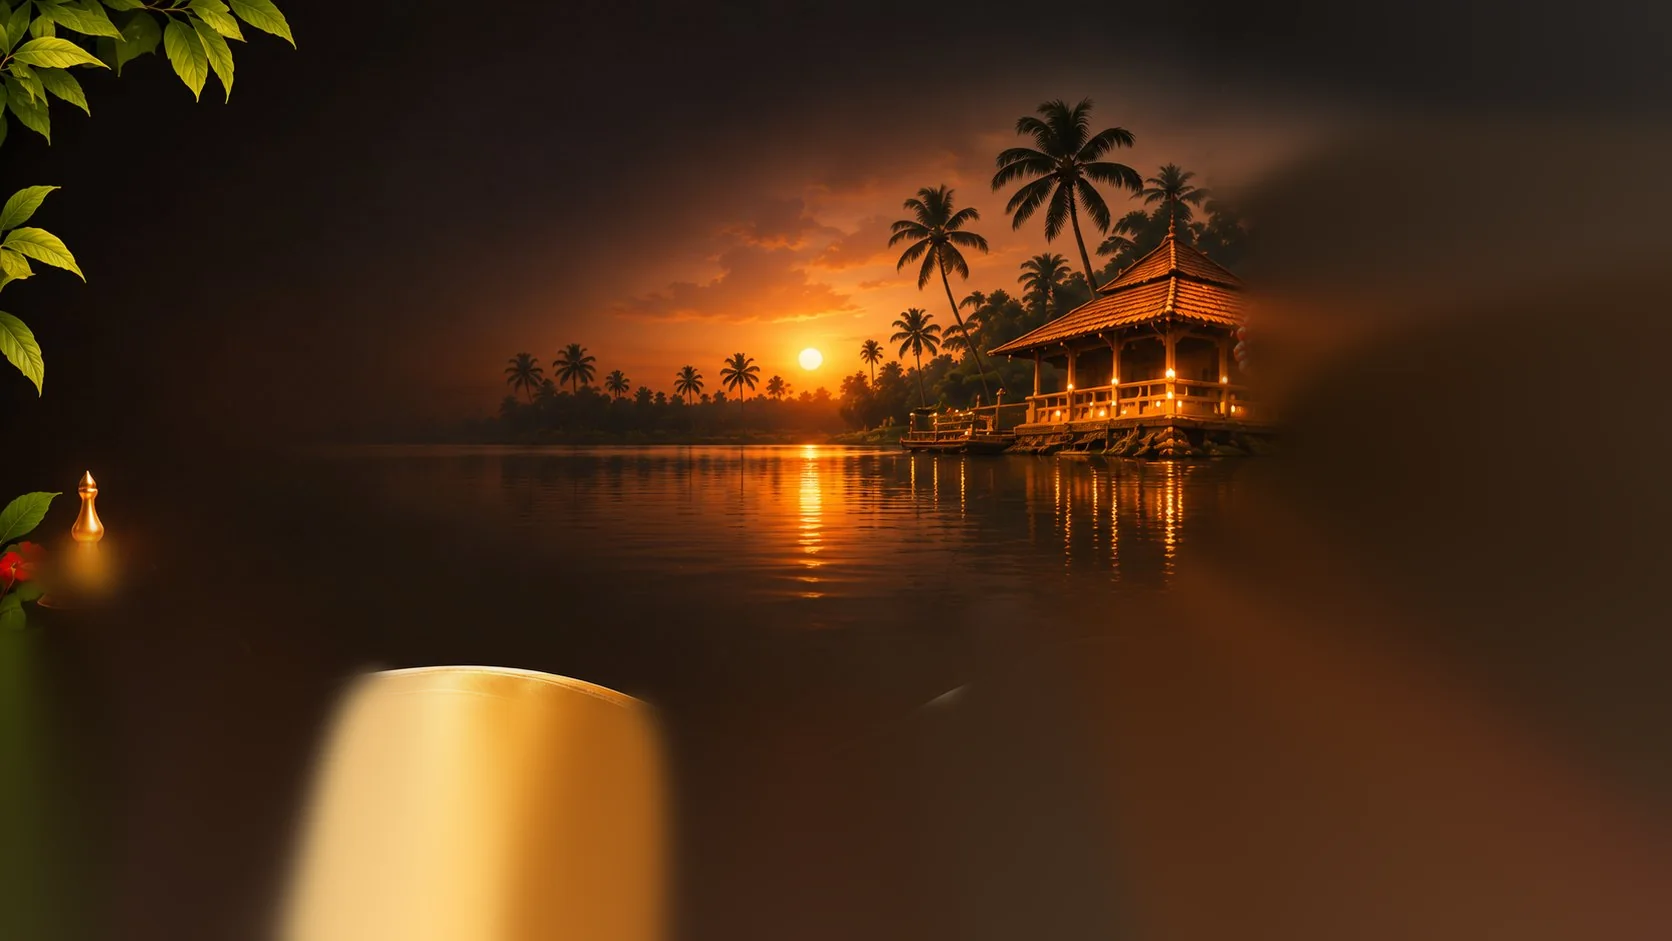
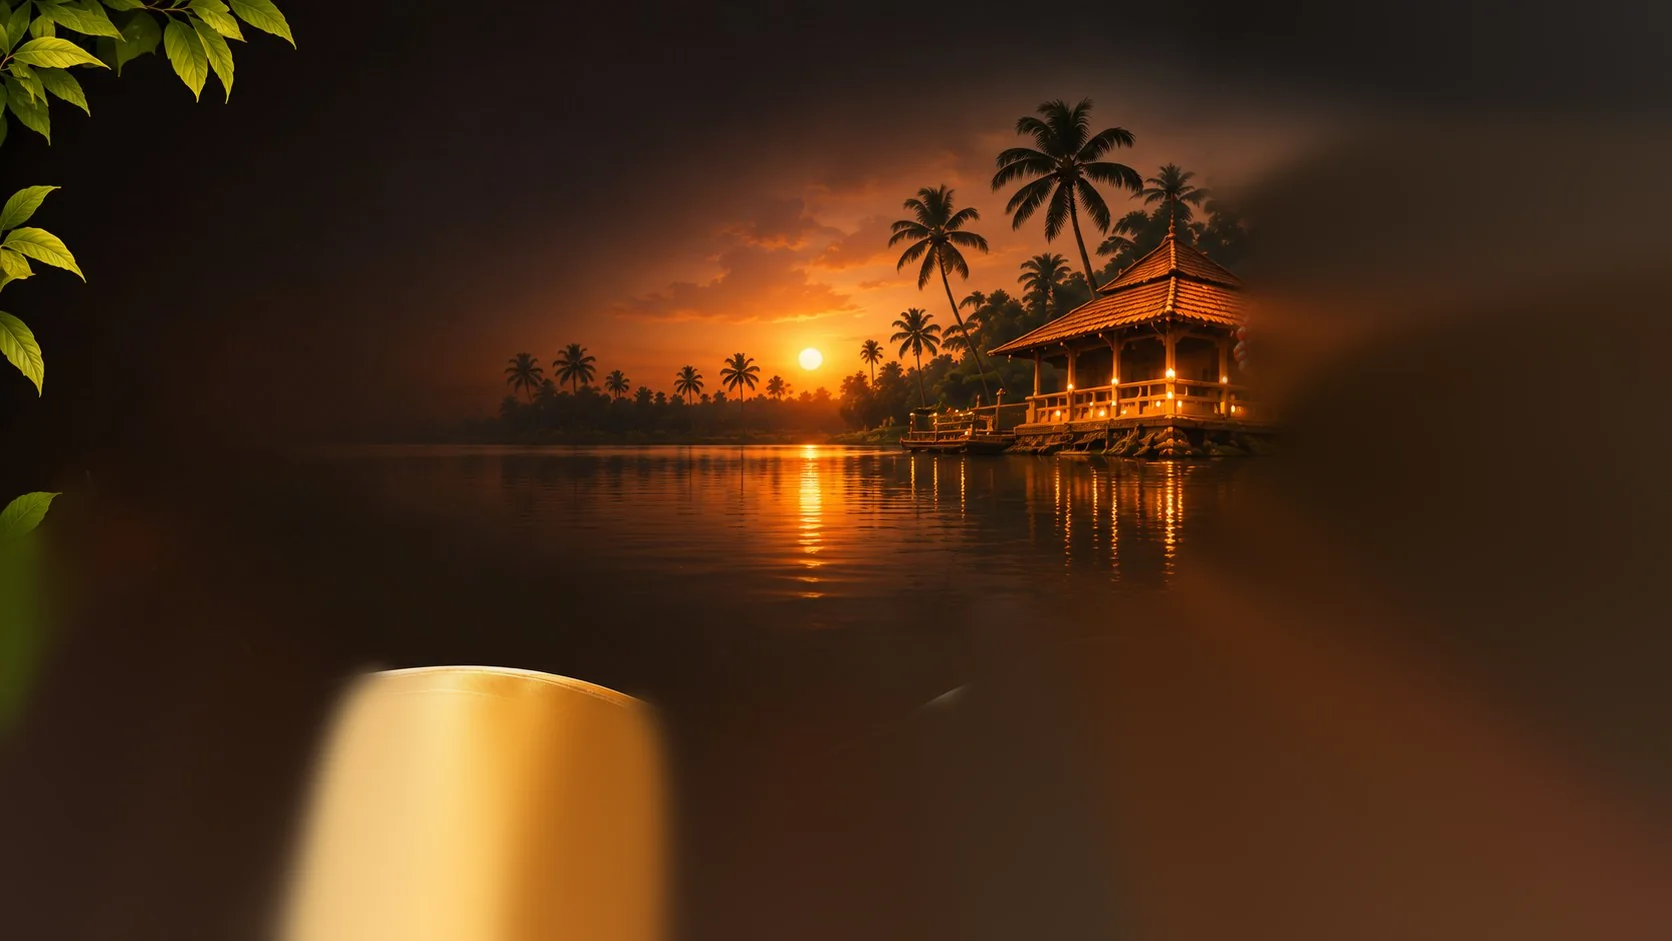
feat(ui): integrate mudra-premium-v3 interactive lighting and depth layers
- Update dark hero plates with refined figure cut-out and background
- Add pointer-reactive kasavu cloth glow in light mode
- Add interactive oil-lamp flare rig and bloom in dark mode
- Add depth stage and Malayalam watermark to PageSheet inner pages
- Defer lamp positioning in Motion.tsx to prevent hydration mismatch
- Add suppressHydrationWarning to stage containers in page and PageSheet

Changed region(s): [[0.0, 0.4931, 0.0933, 0.678]]

diff --git a/src/app/home-premium-plus.css b/src/app/home-premium-plus.css
@@ -43,3 +43,115 @@ img.dk.d-fig { filter: contrast(1.05) saturate(1.08) drop-shadow(0 0 26px rgba(2
   .explore .car-track > li, body:has(.hero) .site-header::before, body:has(.hero) .site-header::after { animation: none !important; }
   body:has(.hero) .site-header::before { opacity: 1; }
 }
+
+/* ==========================================================================
+   4. LIGHT · the silk glows where the pointer crosses it
+   .cloth-glow lives inside the 3D stage, masked by the figure plate's own alpha
+   AND a diagonal band, so it can only ever light the kasavu cloth, never the face.
+   ========================================================================== */
+.cloth-glow {
+  position: absolute; inset: 0; pointer-events: none; opacity: 0; transition: opacity .5s var(--ease-out);
+  transform: translate3d(0, calc(var(--sy, 0) * .04px), 66px) scale(.96);
+  background:
+    radial-gradient(circle 46px at var(--cgx, 50%) var(--cgy, 80%), rgba(255, 255, 255, .55), transparent 100%),
+    radial-gradient(circle 320px at var(--cgx, 50%) var(--cgy, 80%), rgba(255, 206, 92, .78) 0, rgba(255, 170, 50, .42) 34%, rgba(255, 150, 30, .14) 62%, transparent 80%);
+  -webkit-mask-image: url('/mudra/hero-figure.webp'), linear-gradient(174deg, transparent 54%, #000 66%);
+          mask-image: url('/mudra/hero-figure.webp'), linear-gradient(174deg, transparent 54%, #000 66%);
+  -webkit-mask-size: cover, 100% 100%; mask-size: cover, 100% 100%;
+  -webkit-mask-position: 78% 0, 0 0;   mask-position: 78% 0, 0 0;
+  -webkit-mask-repeat: no-repeat;      mask-repeat: no-repeat;
+  -webkit-mask-composite: source-in;   mask-composite: intersect;
+}
+.hero.is-over .cloth-glow { opacity: 1; }
+@media (max-width: 899px) { .cloth-glow { -webkit-mask-position: 97% 0, 0 0; mask-position: 97% 0, 0 0; } }
+
+/* ==========================================================================
+   5. DARK · the oil-lamp lights up as the pointer comes near
+   --lamp is 0..1 (set in Motion.tsx from pointer distance). Registered, so it
+   eases instead of snapping. Four parts: bloom, light spilled on the art,
+   a real CSS flame that flares, and sparks.
+   ========================================================================== */
+@property --lamp { syntax: '<number>'; inherits: true; initial-value: 0; }
+.hero { transition: --lamp .35s ease-out; }
+html:not(.motion) .hero-stage .lamp-rig.dk { display: none; }
+.lamp-rig { position: absolute; inset: 0; pointer-events: none; transform: translate3d(0, calc(var(--sy, 0) * .04px), 70px) scale(.96); }
+html.motion .lamp-rig { animation: d-fig-in 1.9s var(--ease-out) 1.3s both; }
+.lamp-rig i { position: absolute; display: block; }
+.lamp-spot { left: var(--lampx, 5%); top: var(--lampy, 59%); width: 1px; height: 1px; }
+.lamp-bloom {
+  inset: 0; opacity: calc(.3 + var(--lamp, 0) * .7);
+  background: radial-gradient(circle at var(--lampx, 5%) var(--lampy, 59%), rgba(255, 214, 128, .9) 0, rgba(255, 150, 50, .5) 26px, rgba(255, 100, 20, .2) 130px, rgba(255, 80, 10, .07) 290px, transparent 430px);
+}
+.lamp-spill {                                   /* warm light thrown over the basket, cloth and lamp, only where there is art */
+  inset: 0; opacity: var(--lamp, 0);
+  background: radial-gradient(ellipse 600px 440px at var(--lampx, 5%) var(--lampy, 59%), rgba(255, 178, 76, .66), rgba(255, 120, 30, .26) 46%, transparent 76%);
+  -webkit-mask-image: url('/mudra/hero-dark-figure.webp'); mask-image: url('/mudra/hero-dark-figure.webp');
+  -webkit-mask-size: cover; mask-size: cover; -webkit-mask-position: 78% 0; mask-position: 78% 0; -webkit-mask-repeat: no-repeat; mask-repeat: no-repeat;
+}
+.lamp-flame {
+  left: var(--lampx, 5%); top: var(--lampy, 59%); width: 15px; height: 32px; margin: -29px 0 0 -7.5px; transform-origin: 50% 100%;
+  border-radius: 50% 50% 46% 46% / 62% 62% 38% 38%; filter: blur(.5px);
+  background: radial-gradient(ellipse at 50% 80%, #fff7d6 0 16%, #ffd27a 34%, #ff8a2a 62%, rgba(255, 70, 10, 0) 84%);
+  opacity: calc(var(--lamp, 0) * 1.25); scale: calc(.5 + var(--lamp, 0) * .85);
+  box-shadow: 0 0 24px 8px rgba(255, 150, 40, .55);
+}
+.lamp-flame::after { content: ''; position: absolute; left: 50%; top: 0; width: 3px; height: 3px; border-radius: 50%; background: #ffd9a0; box-shadow: 14px -8px 0 -.5px #ffb55a, -12px -20px 0 -1px #ffd08a, 6px -30px 0 -1px #ff9a3a; opacity: 0; }
+html.motion .lamp-flame { animation: flicker 1.25s ease-in-out infinite; }
+html.motion .lamp-flame::after { animation: spark 1.9s ease-out infinite; }
+@keyframes spark { 0% { transform: translateY(0); opacity: 0; } 15% { opacity: calc(var(--lamp, 0) * 1.4); } 100% { transform: translateY(-34px); opacity: 0; } }
+/* the vignette that dims the dark hero gets a lamp-shaped hole, so the lamp can burn through it */
+:root[data-theme='dark'] .hero .hero-stage::after {
+  -webkit-mask-image: radial-gradient(circle 380px at var(--lamphx, 5%) var(--lamphy, 59%), rgba(0, 0, 0, calc(1 - var(--lamp, 0) * .92)) 0%, #000 100%);
+          mask-image: radial-gradient(circle 380px at var(--lamphx, 5%) var(--lamphy, 59%), rgba(0, 0, 0, calc(1 - var(--lamp, 0) * .92)) 0%, #000 100%);
+}
+@media (max-width: 899px) { .lamp-spill { -webkit-mask-position: 97% 0; mask-position: 97% 0; } }
+/* touch: no pointer, so the lamp slowly breathes by itself */
+@keyframes lamp-breathe { from { --lamp: .15; } to { --lamp: .75; } }
+@media (hover: none) { html.motion .hero { animation: torch-idle 12s ease-in-out infinite alternate, lamp-breathe 6s ease-in-out infinite alternate; } }
+
+/* ==========================================================================
+   6. HERO BUTTONS lean toward the pointer (Motion.tsx sets --tx/--ty within ~96px)
+   Uses the individual `translate` property so it never fights the hover lift (transform).
+   ========================================================================== */
+.hero .btn[data-magnetic] {
+  translate: var(--tx, 0px) var(--ty, 0px);
+  transition: translate .55s var(--ease-spring), transform .3s var(--ease-out), box-shadow .3s, background .3s, background-position .8s var(--ease-out);
+}
+.hero .btn[data-magnetic].mag-on { transition: translate .12s linear, transform .3s var(--ease-out), box-shadow .3s, background .3s, background-position .8s var(--ease-out); }
+.hero .btn[data-magnetic] .icon { translate: calc(var(--tx, 0px) * .45) calc(var(--ty, 0px) * .45); transition: translate .55s var(--ease-spring); }
+.hero .btn[data-magnetic].mag-on .icon { transition: translate .12s linear; }
+
+/* ==========================================================================
+   7. DEPTH HEADER for every inner page (Passport, Reuse Studio, Catalogue, Verify...)
+   PageSheet renders the same stage as the home hero, scaled to a banner:
+   Kathakali plates in light, Theyyam plates in dark. Plates are CSS backgrounds,
+   so a visitor only downloads the active theme's art.
+   ========================================================================== */
+.sheet-head.has-depth { min-height: 190px; }
+.sheet-head.has-depth::before {              /* readable text side: only the fade now, the art comes from the stage */
+  z-index: -2;
+  background: linear-gradient(90deg, var(--sheet-head-fade) 0%, var(--sheet-head-fade) 34%, transparent 80%), linear-gradient(0deg, color-mix(in srgb, var(--panel-bg) 60%, transparent), transparent 42%);
+}
+.sheet-head.has-depth::after { content: ''; position: absolute; left: 0; right: 0; bottom: 0; height: 4px; z-index: 1; background: var(--kasavu); opacity: .95; pointer-events: none; }
+.sheet-head .depth-stage, :root:not([data-theme='dark']) .sheet-head .depth-stage { inset: 0; height: 100%; z-index: -3; perspective-origin: 78% 40%; }
+.depth-stage .stage-3d { inset: 0 -3% -4% -3%; transform: rotateY(calc(var(--mx, 0) * -1.4deg)) rotateX(calc(var(--my, 0) * 1deg)); }
+.depth-stage .layer { position: absolute; inset: 0; width: 100%; height: 100%; background-repeat: no-repeat; background-size: cover; background-position: 78% 16%; }
+.depth-stage .l-bg { background-image: url('/mudra/hero-bg.webp'); }
+.depth-stage .l-fig { background-image: url('/mudra/hero-figure.webp'); }
+.depth-stage .d-bg { background-image: url('/mudra/hero-dark-bg.webp'); }
+.depth-stage .d-fig { background-image: url('/mudra/hero-dark-figure.webp'); }
+.depth-stage div.dk.d-fig { -webkit-mask-image: none; mask-image: none; }
+html.motion .depth-stage .l-bg, html.motion .depth-stage .d-bg { animation-duration: 1.1s; animation-delay: 0s; }
+html.motion .depth-stage .l-fig, html.motion .depth-stage .d-fig { animation-duration: 1s; animation-delay: .25s; }
+:root[data-theme='dark'] .depth-stage::after { -webkit-mask-image: none; mask-image: none; background: radial-gradient(circle 300px at calc(72% + var(--mx, 0) * 16%) 50%, transparent 0, rgba(5, 2, 2, 0) 50%, rgba(5, 2, 2, .42) 100%); }
+:root:not([data-theme='dark']) .depth-stage::after { background: radial-gradient(120% 140% at 78% 30%, transparent 55%, rgba(4, 30, 25, .22) 100%); }
+.sheet-head .ghost-ml { left: auto; right: 34%; top: 54%; z-index: -1; font-size: clamp(5rem, 11vw, 8.5rem); opacity: .4; }
+@media (max-width: 899px) {
+  .sheet-head.has-depth { min-height: 150px; }
+  .depth-stage .layer { background-position: 90% 16%; }
+  .sheet-head .ghost-ml { display: none; }
+}
+@media (prefers-reduced-motion: reduce) {
+  .cloth-glow, .lamp-rig, .lamp-flame, .lamp-flame::after { animation: none !important; }
+  .hero .btn[data-magnetic], .hero .btn[data-magnetic] .icon { translate: none; }
+}

diff --git a/src/components/Motion.tsx b/src/components/Motion.tsx
@@ -25,13 +25,29 @@ export function Motion() {
       if (seen.has(el)) return; seen.add(el);
       if (io) io.observe(el); else el.classList.add('is-in');
     });
+    // ---- lamp position: map the artwork's lamp wick (image coords) through object-fit: cover onto the stage box ----
+    const placeLamp = () => {
+      const st = document.querySelector<HTMLElement>('.hero .stage-3d'); if (!st) return;
+      const w = st.offsetWidth, h = st.offsetHeight; if (!w || !h) return;
+      const sc = Math.max(w / 1672, h / 941); const iw = 1672 * sc, ih = 941 * sc;
+      const px = window.matchMedia('(max-width: 899px)').matches ? 0.97 : 0.78;
+      st.style.setProperty('--lampx', `${((w - iw) * px + 0.052 * iw).toFixed(1)}px`);
+      st.style.setProperty('--lampy', `${(0.594 * ih).toFixed(1)}px`);
+      // same point in the parent stage's coordinates (the 3D plane is inset -4%), for the dark vignette's lamp-shaped hole
+      const hs = st.parentElement;
+      if (hs) { hs.style.setProperty('--lamphx', `${(parseFloat(st.style.getPropertyValue('--lampx')) + st.offsetLeft).toFixed(1)}px`); hs.style.setProperty('--lamphy', `${(0.594 * ih + st.offsetTop).toFixed(1)}px`); }
+    };
+
     let mo: MutationObserver | null = null;
     const initTimer = setTimeout(() => {
       scan();
-      mo = new MutationObserver(scan);
+      mo = new MutationObserver(() => { scan(); placeLamp(); });
       mo.observe(document.body, { childList: true, subtree: true });
       onScroll();
+      placeLamp();
     }, 0);
+
+    window.addEventListener('resize', placeLamp, { passive: true });
 
     // ---- pointer: tilt + hero parallax ----
     let current: HTMLElement | null = null;
@@ -53,17 +69,49 @@ export function Motion() {
         t.style.setProperty('--gx', `${((px + 0.5) * 100).toFixed(1)}%`); t.style.setProperty('--gy', `${((py + 0.5) * 100).toFixed(1)}%`);
         current = t;
       }
-      const hero = document.querySelector<HTMLElement>('.hero');
-      if (hero) {
-        const hr = hero.getBoundingClientRect();
-        if (e.clientY >= hr.top && e.clientY <= hr.bottom) {
-          hero.style.setProperty('--mx', (((e.clientX / window.innerWidth) - 0.5) * 2).toFixed(3));
-          hero.style.setProperty('--my', ((((e.clientY - hr.top) / hr.height) - 0.5) * 2).toFixed(3));
+      // depth surfaces: the home hero and every inner-page header
+      document.querySelectorAll<HTMLElement>('.hero, .sheet-head.has-depth').forEach((h) => {
+        const hr = h.getBoundingClientRect();
+        const rowIn = e.clientY >= hr.top && e.clientY <= hr.bottom;
+        const inside = rowIn && e.clientX >= hr.left && e.clientX <= hr.right;
+        if (rowIn) {
+          h.style.setProperty('--mx', (((e.clientX / window.innerWidth) - 0.5) * 2).toFixed(3));
+          h.style.setProperty('--my', ((((e.clientY - hr.top) / hr.height) - 0.5) * 2).toFixed(3));
         }
-      }
+        h.classList.toggle('is-over', inside);
+        if (!h.classList.contains('hero')) return;
+        // light: silk glow follows the pointer (position as % of the art plate)
+        const cg = h.querySelector<HTMLElement>('.cloth-glow');
+        if (cg && cg.offsetParent !== null && inside) {
+          const r = cg.getBoundingClientRect();
+          if (r.width > 0) { h.style.setProperty('--cgx', `${(((e.clientX - r.left) / r.width) * 100).toFixed(1)}%`); h.style.setProperty('--cgy', `${(((e.clientY - r.top) / r.height) * 100).toFixed(1)}%`); }
+        }
+        // dark: the lamp flares as the pointer approaches (0 far .. 1 on top of it)
+        const spot = h.querySelector<HTMLElement>('.lamp-spot');
+        if (spot && spot.offsetParent !== null) {
+          let v = 0;
+          if (inside) { const s = spot.getBoundingClientRect(); const t = Math.max(0, 1 - Math.hypot(e.clientX - s.left, e.clientY - s.top) / 380); v = t * t * (3 - 2 * t); }
+          h.style.setProperty('--lamp', v.toFixed(3));
+        }
+      });
+      // hero buttons lean toward the pointer, then spring back
+      document.querySelectorAll<HTMLElement>('[data-magnetic]').forEach((b) => {
+        const r = b.getBoundingClientRect(); if (r.width === 0) return;
+        const dx = e.clientX - (r.left + r.width / 2); const dy = e.clientY - (r.top + r.height / 2);
+        const reach = Math.max(r.width, r.height) / 2 + 96;
+        if (Math.hypot(dx, dy) < reach) {
+          const c = (v: number, m: number) => Math.max(-m, Math.min(m, v));
+          b.classList.add('mag-on');
+          b.style.setProperty('--tx', `${c(dx * 0.2, 11).toFixed(1)}px`); b.style.setProperty('--ty', `${c(dy * 0.32, 8).toFixed(1)}px`);
+        } else if (b.classList.contains('mag-on')) { b.classList.remove('mag-on'); b.style.removeProperty('--tx'); b.style.removeProperty('--ty'); }
+      });
     };
     const onMove = (e: PointerEvent) => { if (e.pointerType !== 'mouse') return; last = e; if (!raf) raf = requestAnimationFrame(frame); };
-    const onLeave = () => { reset(current); current = null; };
+    const onLeave = () => {
+      reset(current); current = null;
+      document.querySelectorAll<HTMLElement>('.hero, .sheet-head.has-depth').forEach((h) => { h.classList.remove('is-over'); h.style.setProperty('--lamp', '0'); });
+      document.querySelectorAll<HTMLElement>('[data-magnetic]').forEach((b) => { b.classList.remove('mag-on'); b.style.removeProperty('--tx'); b.style.removeProperty('--ty'); });
+    };
     document.addEventListener('pointermove', onMove, { passive: true });
     document.documentElement.addEventListener('mouseleave', onLeave);
 
@@ -86,6 +134,7 @@ export function Motion() {
       document.removeEventListener('pointermove', onMove);
       document.documentElement.removeEventListener('mouseleave', onLeave);
       window.removeEventListener('scroll', onScroll);
+      window.removeEventListener('resize', placeLamp);
       if (raf) cancelAnimationFrame(raf); if (sraf) cancelAnimationFrame(sraf);
       root.classList.remove('motion');
     };

diff --git a/src/app/page.tsx b/src/app/page.tsx
@@ -33,14 +33,22 @@ export default async function Home() {
   return (
     <>
       <section className="hero" aria-labelledby="hero-h" suppressHydrationWarning>
-        <div className="hero-stage" aria-hidden="true">
-          <div className="stage-3d">
+        <div className="hero-stage" aria-hidden="true" suppressHydrationWarning>
+          <div className="stage-3d" suppressHydrationWarning>
             <img className="layer l-bg lt" src="/mudra/hero-bg.webp" alt="" fetchPriority="high" decoding="async" />
             <div className="mist" />
             <img className="layer l-fig lt" src="/mudra/hero-figure.webp" alt="" decoding="async" />
             <div className="cloth-sheen lt" />
             <div className="layer d-plate d-bg dk" />
             <img className="layer d-fig dk" src="/mudra/hero-dark-figure.webp" alt="" decoding="async" />
+            {/* Light: silk glows under the pointer. Dark: the oil-lamp flares when the pointer comes near (positions set in Motion.tsx) */}
+            <div className="cloth-glow lt" />
+            <div className="lamp-rig dk">
+              <i className="lamp-bloom" />
+              <i className="lamp-spill" />
+              <i className="lamp-spot" />
+              <i className="lamp-flame" />
+            </div>
           </div>
         </div>
         <div className="hero-bg" aria-hidden="true" />
@@ -52,8 +60,8 @@ export default async function Home() {
             <h1 id="hero-h"><span className="w" style={{ '--i': 0 } as React.CSSProperties}>Discover</span><span className="dot" aria-hidden="true"> · </span><span className="sr">, </span><span className="w" style={{ '--i': 1 } as React.CSSProperties}>Credit</span><span className="dot" aria-hidden="true"> · </span><span className="sr">, </span><span className="w" style={{ '--i': 2 } as React.CSSProperties}>Reuse</span> <em className="w" style={{ '--i': 3 } as React.CSSProperties}>Responsibly</em></h1>
             <p className="lede">A digital space to explore Kerala’s art, craft and cultural expressions, see who they come from, and know how you may reuse them with the creators’ terms.</p>
             <div className="cta">
-              <a className="btn gold" href="/catalogue">Explore Catalogue <Icon name="arrow" size={18} /></a>
-              <a className="btn ghost" href="/reuse"><Icon name="layers" size={18} /> Reuse Studio</a>
+              <a className="btn gold" data-magnetic href="/catalogue">Explore Catalogue <Icon name="arrow" size={18} /></a>
+              <a className="btn ghost" data-magnetic href="/reuse"><Icon name="layers" size={18} /> Reuse Studio</a>
             </div>
           </div>
         </div>

diff --git a/src/components/PageSheet.tsx b/src/components/PageSheet.tsx
@@ -4,7 +4,18 @@ import type { ReactNode } from 'react';
 export function PageSheet({ title, lede, eyebrow, children, wide, headExtra }: { title: ReactNode; lede?: ReactNode; eyebrow?: ReactNode; children: ReactNode; wide?: boolean; headExtra?: ReactNode }) {
   return (
     <section className={`sheet${wide ? ' sheet-wide' : ''}`}>
-      <header className="sheet-head">
+      <header className="sheet-head has-depth">
+        {/* Same layered depth as the home hero: Kathakali in light, Theyyam in dark. CSS backgrounds, so only the active theme's art is downloaded. */}
+        <div className="hero-stage depth-stage" aria-hidden="true" suppressHydrationWarning>
+          <div className="stage-3d" suppressHydrationWarning>
+            <div className="layer l-bg lt" />
+            <div className="mist" />
+            <div className="layer l-fig lt" />
+            <div className="layer d-bg dk" />
+            <div className="layer d-fig dk" />
+          </div>
+        </div>
+        <span className="ghost-ml" lang="ml" aria-hidden="true">മുദ്ര</span>
         <div className="sheet-head-text">
           {eyebrow && <p className="eyebrow-sm">{eyebrow}</p>}
           <h1>{title}</h1>
